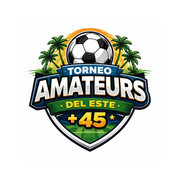
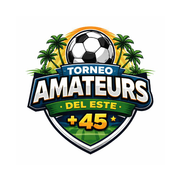
fead

Changed region(s): [[0.1389, 0.1389, 0.8611, 0.8611]]

diff --git a/scripts/generate-icons.ts b/scripts/generate-icons.ts
@@ -26,8 +26,8 @@ const APP_DIR = path.join(process.cwd(), "src", "app")
 const TARGETS = [
   { file: "icon-192.png", size: 192, scale: 1 },
   { file: "icon-512.png", size: 512, scale: 1 },
-  { file: "icon-maskable-512.png", size: 512, scale: 0.66 },
-  { file: "apple-touch-icon.png", size: 180, scale: 0.75 },
+  { file: "icon-maskable-512.png", size: 512, scale: 0.73 },
+  { file: "apple-touch-icon.png", size: 180, scale: 0.83 },
 ]
 
 /** Resize to `size`, keeping the logo inside a transparent safe-zone when scale < 1. */
